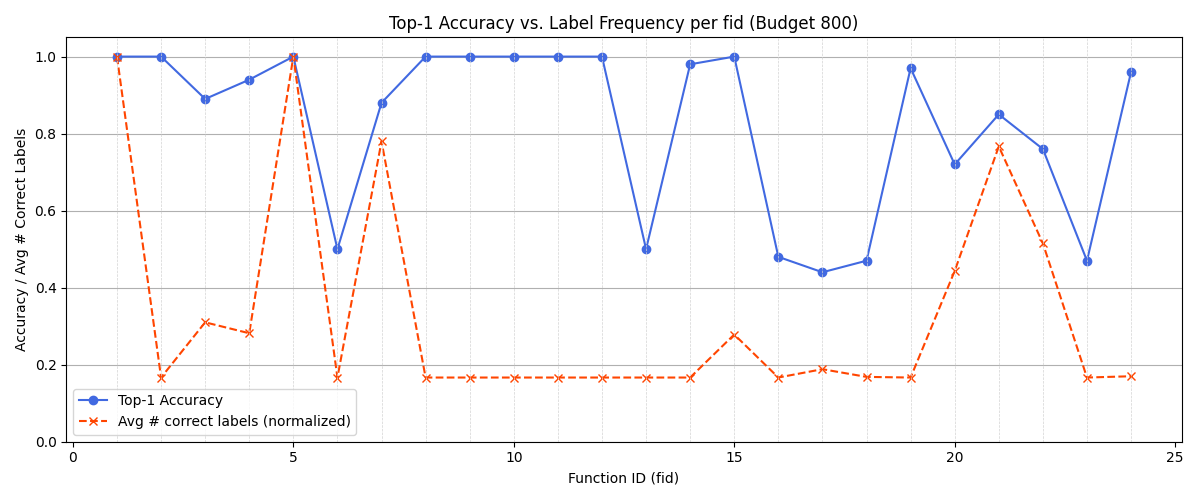
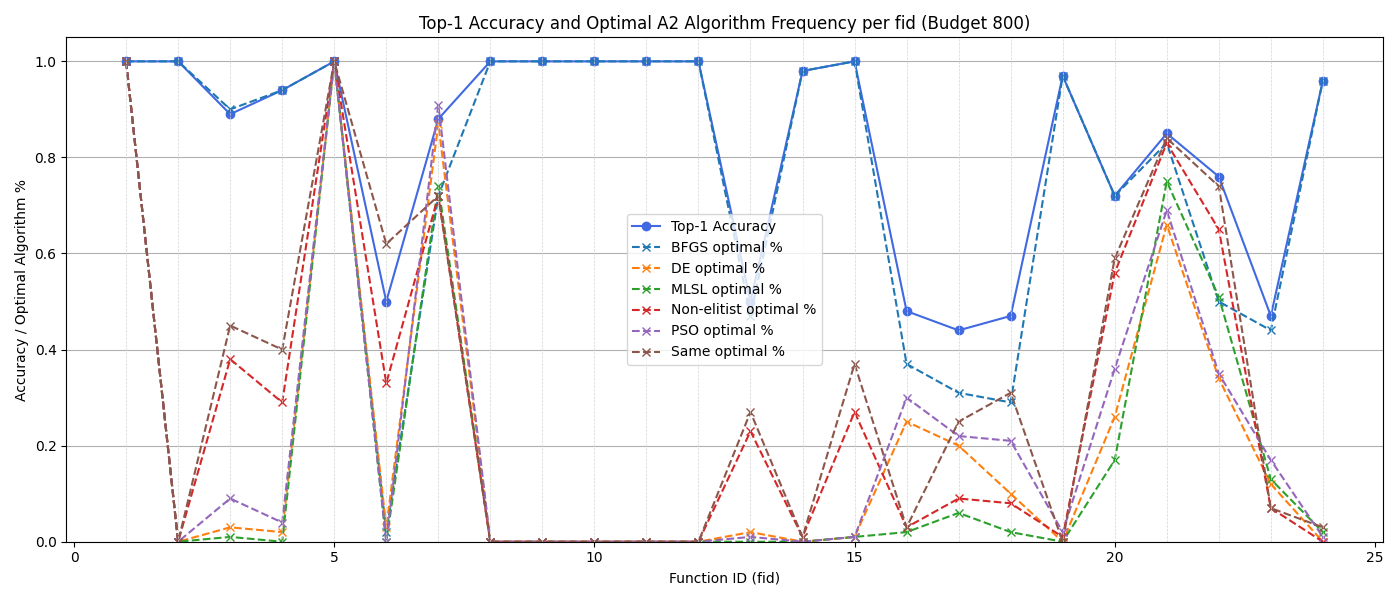
algo prediction experiment

Changed region(s): [[0.0, 0.03, 1.0, 0.99]]

diff --git a/rf_algorithm_prediction/scripts/algo_prediction.py b/rf_algorithm_prediction/scripts/algo_prediction.py
@@ -95,9 +95,10 @@ def plot_per_fid_accuracy_per_budget(budget_list, ela_folder="data/ELA_over_budg
     """
     For each budget, plot:
     - Top-1 accuracy per fid (dot + line)
-    - Avg number of 1-algorithms per fid (dot + line)
+    - One line per A2 algorithm: percentage of runs where it was optimal (dot + line)
     - Vertical line per fid
     """
+
     label_cols = ['BFGS', 'DE', 'MLSL', 'Non-elitist', 'PSO', 'Same']
 
     for budget in budget_list:
@@ -106,7 +107,7 @@ def plot_per_fid_accuracy_per_budget(budget_list, ela_folder="data/ELA_over_budg
         if acc_per_fid is None:
             continue
 
-        # Load ELA data to compute average number of 1s per fid
+        # Load ELA data
         ela_file = f"{ela_folder}/A1_B{budget}_5D_ela.csv_with_algo_perfomance.csv"
         try:
             ela_df = pd.read_csv(ela_file)
@@ -114,39 +115,47 @@ def plot_per_fid_accuracy_per_budget(budget_list, ela_folder="data/ELA_over_budg
             print(f"ELA file not found: {ela_file}")
             continue
 
-        # Compute avg number of 1-algorithms per fid (no column dropping)
         ela_df[label_cols] = ela_df[label_cols].fillna(0)
-        ela_df['num_ones'] = ela_df[label_cols].sum(axis=1)
-        avg_ones_per_fid = ela_df.groupby('fid')['num_ones'].mean().to_dict()
-
-        # Plotting
         fids = sorted(acc_per_fid.keys())
         accuracies = [acc_per_fid[fid] for fid in fids]
-        avg_ones = [avg_ones_per_fid.get(fid, 0) / len(label_cols) for fid in fids]  # normalized [0, 1]
 
-        plt.figure(figsize=(12, 5))
+        # Compute per-algorithm optimal percentage per fid
+        algo_optimal_perc = {alg: [] for alg in label_cols}
+        for fid in fids:
+            fid_df = ela_df[ela_df['fid'] == fid]
+            num_rows = len(fid_df)
+            if num_rows == 0:
+                for alg in label_cols:
+                    algo_optimal_perc[alg].append(0.0)
+            else:
+                for alg in label_cols:
+                    num_ones = fid_df[alg].sum()
+                    algo_optimal_perc[alg].append(num_ones / num_rows)
+
+        # Plotting
+        plt.figure(figsize=(14, 6))
 
         # Accuracy line + dots
         plt.plot(fids, accuracies, marker='o', linestyle='-', color='royalblue', label='Top-1 Accuracy')
 
-        # Label-frequency reference line
-        plt.plot(fids, avg_ones, marker='x', linestyle='--', color='orangered',
-                 label='Avg # correct labels (normalized)')
+        # One line per algorithm showing its % of optimality per fid
+        for alg in label_cols:
+            plt.plot(fids, algo_optimal_perc[alg], marker='x', linestyle='--', label=f"{alg} optimal %")
 
         # Vertical lines for each fid
         for fid in fids:
             plt.axvline(x=fid, color='lightgray', linestyle='--', linewidth=0.5)
 
-        plt.title(f"Top-1 Accuracy vs. Label Frequency per fid (Budget {budget})")
+        plt.title(f"Top-1 Accuracy and Optimal A2 Algorithm Frequency per fid (Budget {budget})")
         plt.xlabel("Function ID (fid)")
-        plt.ylabel("Accuracy / Avg # Correct Labels")
+        plt.ylabel("Accuracy / Optimal Algorithm %")
         plt.ylim(0, 1.05)
         plt.grid(True, axis='y')
         plt.legend()
         plt.tight_layout()
-        if not os.path.exists("results/accuracy_per_fid"):
-            os.makedirs("results/accuracy_per_fid")
+        os.makedirs("results/accuracy_per_fid", exist_ok=True)
         plt.savefig(f"results/accuracy_per_fid/budget_{budget}.png")
         print(f"Plot saved for budget {budget} at /results/accuracy_per_fid/budget_{budget}.png")
+
 
 plot_per_fid_accuracy_per_budget([50*i for i in range(1, 20)])

diff --git a/rf_algorithm_prediction/rf_algorith_prediction.md b/rf_algorithm_prediction/rf_algorith_prediction.md
@@ -1,9 +1,42 @@
 # RF_Algorithm_Prediction
-### Goal
-Train random forests (one for each budget) that do multi-label classification. Given ELA features from one run and one budget, this forest should label all the A2 algorithms that achieve maximum precision for that switching point with 1. The purpose of this experiment is to visualize how the performance of such a selector changes throughout budgets.
 
-### Model
-Because for one budget of a run, there could be several algorithms that reach the best precision for that budget, I used a MultiOuputClassifier. In the evaluation however, I only considered the label that that Classifier assigns the highest probability and check if the algorithm corresponding to that label is optimal for the budget. I again that leave-instance-out cross-validation.
+## Goal
 
-### Results
-Inside results. Surprisingly, the accuracy is quite high for low budgets and then doesnt increace too significantly over budgets.
+The objective of this experiment is to train **Random Forest models** (one per budget level) to perform **multi-label classification**. Each model predicts, given the ELA (Exploratory Landscape Analysis) features extracted from a single optimization run at a specific budget, which **A2 algorithms** would achieve the **highest precision** within 1000 evaluations if chosen at that switching point.
+
+This setup allows us to analyze how well a model can predict good switching decisions based solely on ELA features — and how this ability evolves across different budget levels.
+
+---
+
+## Model Design
+
+- For each budget, a **Random Forest classifier** is trained using a `MultiOutputClassifier`, because:
+  - A single run at a given budget may have **multiple algorithms** that achieve the **best (maximum) precision**, requiring multi-label output.
+
+- **Training setup**:
+  - One forest per budget level.
+  - Features: ELA features for that run and budget.
+  - Targets: Binary labels indicating which A2 algorithms reach the best precision at that point.
+
+- **Evaluation**:
+  - For prediction, we only consider the **algorithm assigned the highest probability** by the model.
+  - We then check whether that algorithm is among the **optimal choices** (i.e., those with maximum precision for that budget).
+  - Evaluation is performed using **leave-one-instance-out cross-validation**, to test generalization across problem instances.
+  - In accuracy_per_fid, you can find a plot for each budget in which the accuracy per fid is plotted. In the plots, you also find lines for each second algorithm that indicates the percentage of runs for which that second algorithm was best for the fid at that budget.
+
+
+
+## Results
+### Accuracy Trends Across Budgets
+
+The model achieves an accuracy of **64% at budget 50**, which is surprisingly high given the limited amount of information available at early stages. While the accuracy **increases for higher budgets**, it does so only moderately — reaching just above **80% at best**. This suggests that most of the predictive power is already captured by the ELA features at lower budgets.
+
+### Function-Specific Behavior
+
+The plots indicate a strong link between the **distribution of optimal algorithms per function (fid)** and the **model's prediction accuracy**. In cases where a **single algorithm consistently performs best for a given function** — such as **BFGS for fids 9 to 12** — the model achieves **near-perfect accuracy (100%)**. This implies that the model’s predictions are largely **function-specific rather than run-specific**.
+
+### Interpretation
+
+If one algorithm is repeatedly optimal for a given function, the model learns to always predict that algorithm — leading to high accuracy. Therefore, part of the observed performance gain over budgets may not stem from better predictive modeling, but rather from **shifts in the distribution of best algorithms**.
+
+For example, at **budget 950**, the accuracy curve closely resembles the distribution of **BFGS** being optimal across functions, indicating that the model increasingly follows trends in the data rather than run-level distinctions.
